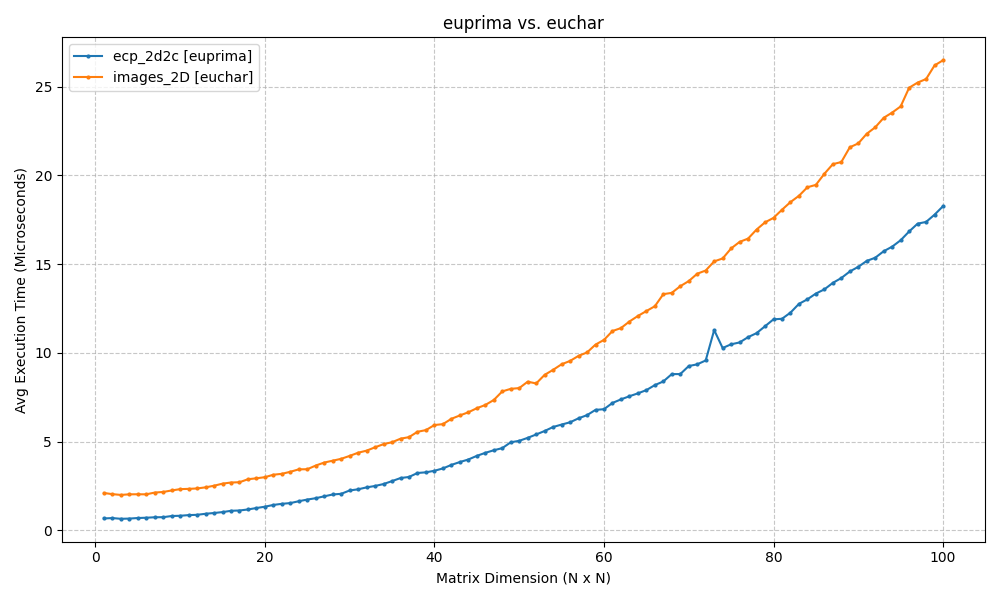
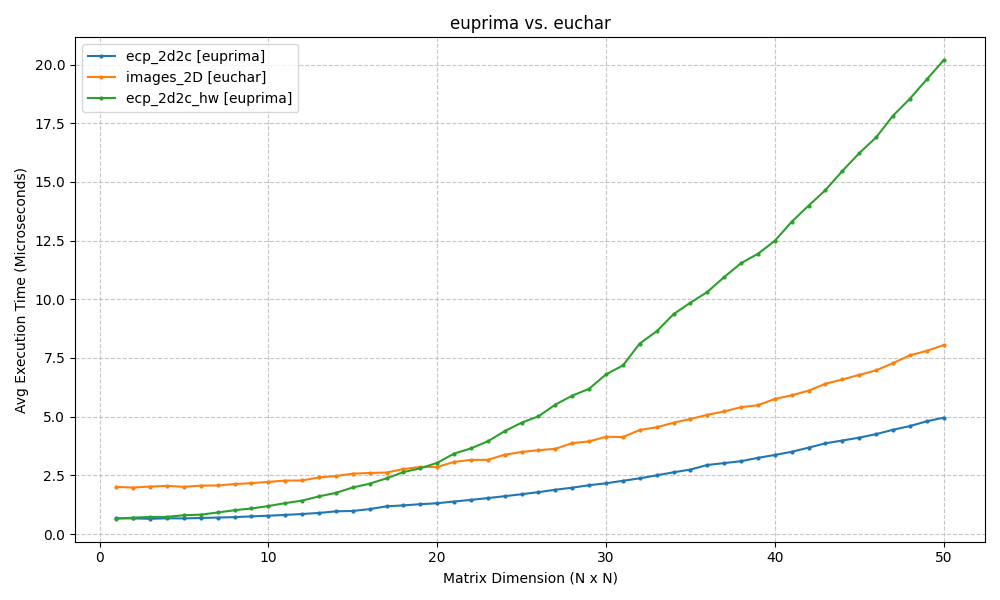
Add Heiss/Wagner 2d2c implementation

diff --git a/euprima/cppbinding/profiles.cpp b/euprima/cppbinding/profiles.cpp
@@ -594,6 +594,21 @@ Matrix<uint8_t,2> elementwise_AND_2d(const Matrix<uint8_t,2> &image1, const Args
     return result;
 }
 
+Matrix<uint8_t,2> elementwise_AND_2d(const Matrix<uint8_t,2> &image1, const Matrix<uint8_t,2> &image2) {
+    Matrix<uint8_t,2> result = image1;
+
+    size_t num_rows = image1.dim(0);
+    size_t num_cols = image1.dim(1);
+
+    for(size_t i=0; i<num_rows; i++){
+	for(size_t j=0; j<num_cols; j++) {
+	    result(i,j) = (result(i,j) && image2(i,j));
+	}
+    }
+
+    return result;
+}
+
 py::array_t<int> py_ecp_2d2c_naive(py::array_t<int> image_c1, py::array_t<int> image_c2, int T1, int T2) {
     Matrix<int,2> ecp(static_cast<size_t>(T1+1),static_cast<size_t>(T2+1),0);
 
@@ -889,6 +904,64 @@ py::array_t<int> py_ecp_2d3c(py::array_t<int> image_c1, py::array_t<int> image_c
 	ecp.data_ptr()
     );
 }
+// Heiss & Wagner
+py::array_t<int> py_ecp_2d2c_hw(py::array_t<int> image_c1, py::array_t<int> image_c2, int T1, int T2) {
+    Matrix<int,2> pad_img_c1 = pad_img_2d(image_c1,T1+1);
+    Matrix<int,2> pad_img_c2 = pad_img_2d(image_c2,T2+1);
+
+    size_t num_rows = image_c2.shape(0);
+    size_t num_cols = image_c2.shape(1); 
+
+    Matrix<int, 2> ecp(T1+1, T2+1, 0);
+
+    for(size_t s=0; s<=T2; ++s) {
+	for(size_t i=1; i<num_rows+1; ++i) {
+	    for(size_t j=1; j<num_cols+1; ++j) {
+		if(pad_img_c2(i,j) <= s) {
+		    int val = pad_img_c1(i,j);
+
+		    int n1 = pad_img_c2(i-1,j-1) <= s ? pad_img_c1(i-1,j-1) : T1+1;
+		    int n2 = pad_img_c2(i-1,j) <= s ? pad_img_c1(i-1,j) : T1+1;
+		    int n3 = pad_img_c2(i-1,j+1) <= s ? pad_img_c1(i-1,j+1) : T1+1;
+		    int n4 = pad_img_c2(i,j-1) <= s ? pad_img_c1(i,j-1) : T1+1;
+		    int n6 = pad_img_c2(i,j+1) <= s ? pad_img_c1(i,j+1) : T1+1;
+		    int n7 = pad_img_c2(i+1,j-1) <= s ? pad_img_c1(i+1,j-1) : T1+1;
+		    int n8 = pad_img_c2(i+1,j) <= s ? pad_img_c1(i+1,j) : T1+1;
+		    int n9 = pad_img_c2(i+1,j+1) <= s ? pad_img_c1(i+1,j+1) : T1+1;
+
+		    int change = 0;
+
+		    // square
+		    change += 1;
+
+		    // edges
+		    change -= n2 >= val; // top edge
+		    change -= n6 > val; // right edge
+		    change -= n8 > val; // bottom edge
+		    change -= n4 >= val; // left edge
+		    
+		    // vertices
+		    change += n1 >= val && n2 >= val && n4 >= val; // top-left vertex 
+		    change += n2 >= val && n3 >= val && n6 > val; // top-right vertex 
+		    change += n4 >= val && n7 > val && n8 > val; // bottom-left vertex 
+		    change += n6 > val && n8 > val && n9  > val; // bottom-right vertex 
+
+		    ecp(val,s) += change;
+		}
+	    }
+	}
+
+	// cummulative sum
+	for(size_t r=1; r<=T1; ++r) {
+	    ecp(r,s) += ecp(r-1,s);
+	}
+    }
+
+    return py::array_t<int>(
+	{ecp.dim(0), ecp.dim(1)},
+	ecp.data_ptr()
+    );
+}
 
 PYBIND11_MODULE(euprima, m) {
     m.def("ec_binary_image_2d_naive", &py_ec_binary_image_2d_naive, "Euler characteristic of a binary 2d image without and optimizations");
@@ -900,4 +973,5 @@ PYBIND11_MODULE(euprima, m) {
     m.def("euler_changes_2d", &py_euler_changes_2d, "Vector of all possible changes in Euler characteristic");
     m.def("ecp_2d3c_naive", &py_ecp_2d3c_naive, "Euler characteristic profile computed without any optimizations");
     m.def("ecp_2d3c", &py_ecp_2d3c, "Euler characteristic profile computed with the most efficient algorithm yet");
+    m.def("ecp_2d2c_hw", &py_ecp_2d2c_hw, "Euler characteristic profile computed the efficient Heiss/Wagner algorithm for ECCs");
 }

diff --git a/euprima/benchmark-ecp-2d2c.py b/euprima/benchmark-ecp-2d2c.py
@@ -1,0 +1,67 @@
+import numpy as np
+import pandas as pd
+import matplotlib.pyplot as plt
+
+import testing_utils
+
+import build.euprima as euprima
+import euchar.utils, euchar.surface
+
+euler_changes = euchar.utils.vector_all_euler_changes_in_2D_images()
+
+samples_per_n = 10
+def input_generator(n):
+    return [
+        (np.random.randint(0, 256, (n,n), dtype=np.uint8),
+         np.random.randint(0, 256, (n,n), dtype=np.uint8),
+         euler_changes,
+         255,
+         255)
+        for _ in range(samples_per_n+1)
+    ]
+
+N = 50
+ig_args = range(1,N+1)
+
+summary1 = testing_utils.benchmark(euprima.ecp_2d2c, input_generator, ig_args)
+summary2 = testing_utils.benchmark(euchar.surface.images_2D, input_generator, ig_args)
+
+def input_generator2(n):
+    return [
+        (np.random.randint(0, 256, (n,n), dtype=np.uint8),
+         np.random.randint(0, 256, (n,n), dtype=np.uint8),
+         255,
+         255)
+        for _ in range(samples_per_n+1)
+    ] 
+summary3 = testing_utils.benchmark(euprima.ecp_2d2c_hw, input_generator2, ig_args)
+#summary4 = testing_utils.benchmark(euprima.ecp_2d2c_naive, input_generator2, ig_args)
+
+# TODO: Save summaries to csv
+data = {
+    "ecp_2d2c": summary1,
+    "images_2D": summary2,
+    "ecp_2d2c_hw": summary3,
+    #"ecp_2d2c_naive": summary4
+}
+
+# Convert to DataFrame and save
+df = pd.DataFrame(data)
+df.to_csv('benchmark_ecp_2d2c.csv', index=False)
+
+plt.figure(figsize=(10, 6))
+plt.plot(ig_args, [t*1000 for t in summary1], label='ecp_2d2c [euprima]', marker='o', markersize=2)
+plt.plot(ig_args, [t*1000 for t in summary2], label='images_2D [euchar]', marker='o', markersize=2)
+plt.plot(ig_args, [t*1000 for t in summary3], label='ecp_2d2c_hw [euprima]', marker='o', markersize=2)
+#plt.plot(ig_args, [t*1000 for t in summary4], label='ecp_2d2c_naive [euprima]', marker='o', markersize=2)
+
+plt.xlabel('Matrix Dimension (N x N)')
+plt.ylabel('Avg Execution Time (Microseconds)')
+plt.title('euprima vs. euchar')
+plt.legend()
+plt.grid(True, linestyle='--', alpha=0.7)
+plt.tight_layout()
+
+# Save the plot
+plt.savefig('benchmark_ecp_2d2c.png')
+print("Benchmark complete. Data saved to CSV and graph saved as PNG.")

diff --git a/euprima/profiles.py b/euprima/profiles.py
@@ -27,6 +27,8 @@ img_c1 = np.random.randint(0, 6, (5,5), dtype=np.uint8)
 img_c2 = np.random.randint(0, 6, (5,5), dtype=np.uint8)
 img_c3 = np.random.randint(0, 6, (5,5), dtype=np.uint8)
 
+print(img_c1);
+
 euler_changes = euchar.utils.vector_all_euler_changes_in_2D_images()
 
 ecp = euprima.ecp_2d2c(img_c1, img_c2, euler_changes, 5, 5);
@@ -35,6 +37,19 @@ ecp_naive = euprima.ecp_2d2c_naive(img_c1, img_c2, 5, 5);
 euler_changes_euprima = euprima.euler_changes_2d();
 
 testing_utils.check_pairwise_equality([ecp,ecp_euchar,ecp_naive], labels=["euprima","euchar","euprima_naive"])
+print("BEFORE computation")
+print(ecp)
+print(ecp_euchar)
+
+print("ecp_hw computation")
+ecp_hw = euprima.ecp_2d2c_hw(img_c1, img_c2, 5, 5);
+print(ecp_hw)
+
+print("AFTER computation")
+print(ecp)
+print(ecp_euchar)
+
+testing_utils.check_pairwise_equality([ecp,ecp_euchar,ecp_hw,ecp_naive], labels=["euprima","euchar","heiss/wagner","euprima_naive"])
 
 testing_utils.check_pairwise_equality([euler_changes, euler_changes_euprima], labels=["euchar", "euprima"])
 
@@ -42,5 +57,5 @@ ecp3_naive = euprima.ecp_2d3c_naive(img_c1, img_c2, img_c3, 5, 5, 5)
 ecp3 = euprima.ecp_2d3c(img_c1, img_c2, img_c3, euler_changes, 5, 5, 5)
 testing_utils.check_pairwise_equality([ecp3, ecp3_naive], labels=["exp3","exp3_naive"])
 
-print(ecp3_naive)
-print(ecp3)
+#print(ecp3_naive)
+#print(ecp3)

diff --git a/TODO.md b/TODO.md
@@ -1,9 +1,10 @@
 - [ ] Cut down on copies when returning py::array_t types (pointer management via capsules)
 - [x] Naive ECP computation
 - [x] Optimized euler_changes computation
-- [ ] Optimized computation of EC of binary images (Yao et al.)
+- [x] Optimized computation of EC of binary images (Yao et al.) | Not working
 - [x] Optimized computation of EC of binary images (Gray)
 - [ ] Implement ECC algorithm (non-streaming) by Heiss & Wagner (for "naive" efficient ECP computation)
+- [ ] Implement "naive optimization" suggested by Beltramo in Section 3.4 in his PhD thesis | So far just for the 2d2c case
 - [x] Implement naive ECP algorithm in three parameters
 - [x] Implement generalized ECS algorithm in three parameters
 - [ ] Implement general ECP algorithm by Dlotko & Gurnari
